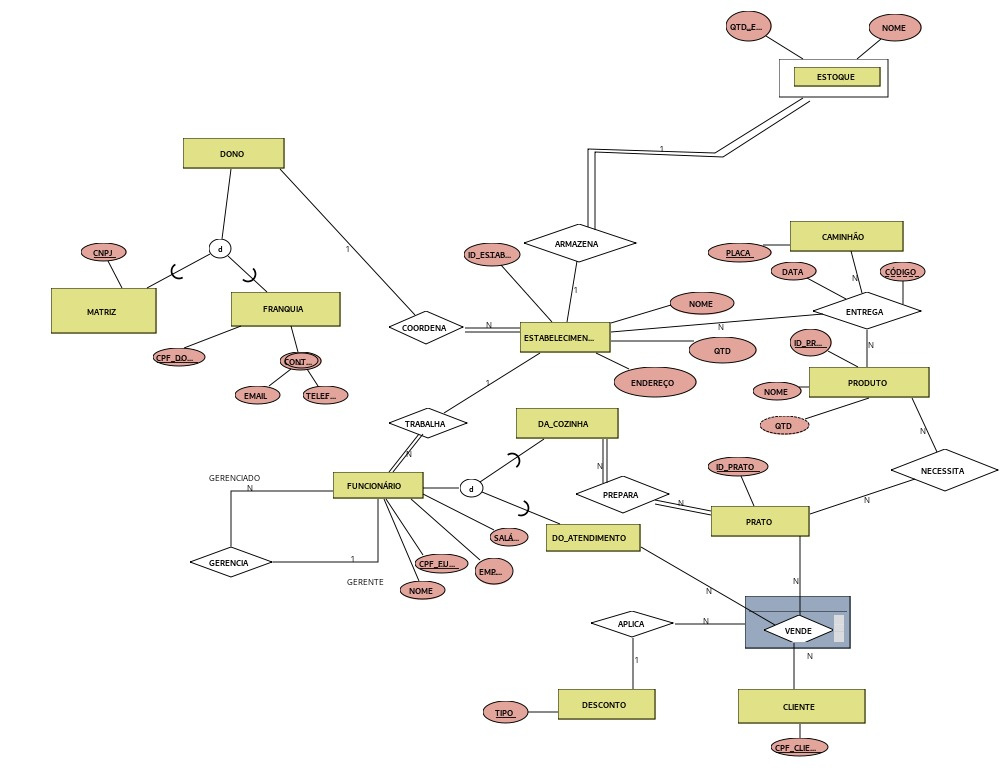
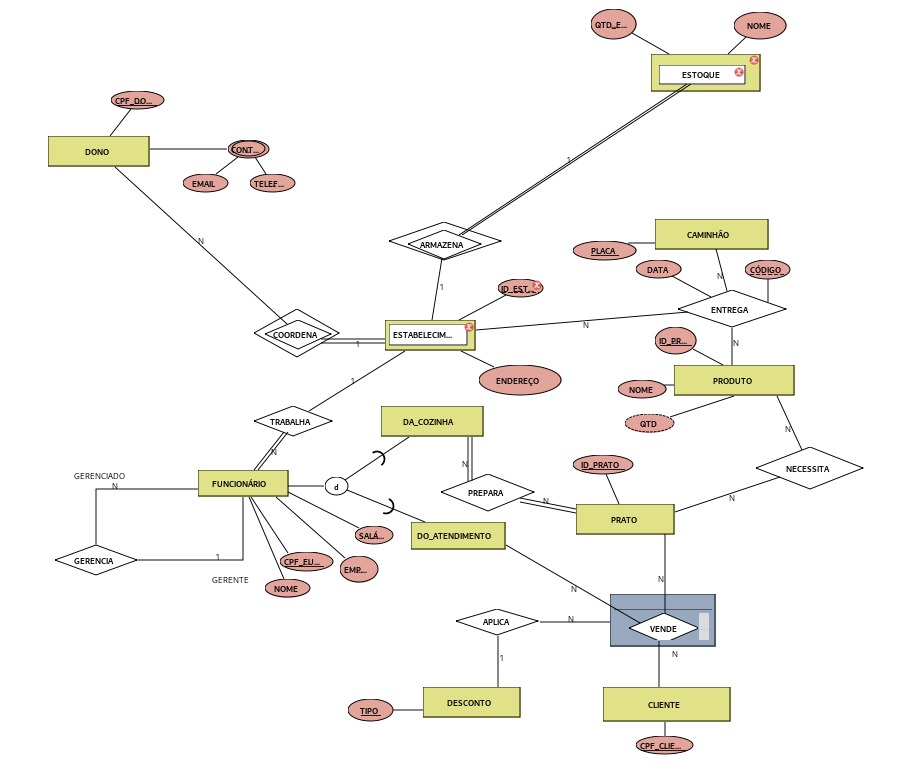
Updating

diff --git a/projeto-conceitual/minimundo.tex b/projeto-conceitual/minimundo.tex
@@ -28,11 +28,11 @@ Vinícius Lima Ventura (vlv2)\\[0.2cm]}
 
 Um \textbf{funcionário} tem \underline{CPF}, nome, salário e pode ser empregado terceirizado ou não.  Um \textbf{funcionário} pode ser gerente de outros \textbf{funcionários}, os quais são gerenciados por um único funcionário.
 
-Um \textbf{funcionário} pode ser funcionário \textbf{da cozinha} ou \textbf{do atendimento}. Ele trabalha para um único \textbf{estabelecimento}. Tem varios \textbf{funcionários} que trabalham no \textbf{estabelecimento}, o qual tem um \underline{id} de identificação, um nome, a quantidade de estabelecimentos daquele tipo e um endereço. O \textbf{estabelecimento} precisa ter um único \textbf{estoque} para armazenar os produtos, o \textbf{estoque} tem um nome e uma quantidade armazenada no estoque.
+Um \textbf{funcionário} pode ser funcionário \textbf{da cozinha} ou \textbf{do atendimento}. Ele trabalha para um único \textbf{estabelecimento}. Tem varios \textbf{funcionários} que trabalham no \textbf{estabelecimento}, o qual tem um \underline{id} de identificação e um endereço. O \textbf{estabelecimento} precisa ter um único \textbf{estoque} para armazenar os produtos, o \textbf{estoque} tem um nome e uma quantidade armazenada no estoque.
 
 Os \textbf{produtos} são entregues aos \textbf{estabelecimento} por \textbf{caminhões}, cada \textbf{caminhão} tem uma \underline{placa} e a entrega precisa ter um \underline{código} associado a ela e uma data na qual deve ocorrer. Os \textbf{produtos} que são entregues tem um \underline{id} identificador, um nome e uma quantidade.
 
-O \textbf{estabelecimento} tem um único \textbf{dono} que pode coordenar vários estabelecimentos. O dono tem duas formas de gerir seu negócio, através de uma \textbf{matriz} que tem \underline{CNPJ} ou \textbf{franquia} que tem o \underline{CPF} do dono e um contato (formado por email e telefone).
+O \textbf{estabelecimento} tem um único \textbf{dono} que pode coordenar vários estabelecimentos. O \textbf{dono} tem \underline{CPF} e um contato (formato por email e telefone).
 
 Os \textbf{produtos} são usados para preparar os \textbf{pratos} dos \textbf{clientes}, os \textbf{pratos} são preparados pelos \textbf{funcionários da cozinha}, cada \textbf{prato} tem um \underline{id} identificador para ser vendido pelos \textbf{funcionários do atendimento}, nessas vendas um \textbf{desconto} pode ser aplicado, existem diferentes \undeline{tipos} de desconto. Quando o \textbf{prato} é vendido para o \textbf{cliente}, é necessário ter o \underline{CPF} do cliente.
 
